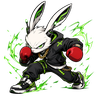
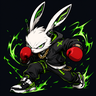
Use dark-background G mascot, framed like a poster
- Swap hero/nav/footer avatar to the dark-bg version of the finalized
  G pose (Codex background-replace kept the exact pose; solid #0f1117
  bg blends with the page, no transparency artifacts)
- Frame it as a filled poster: object-cover, rounded inner corners,
  thin gradient border ring

diff --git a/docs/index.html b/docs/index.html
@@ -106,8 +106,8 @@
 
         <!-- Hero Image -->
         <div class="relative flex justify-center lg:justify-end">
-          <div class="relative w-72 md:w-80 aspect-square rounded-3xl p-6 bg-gradient-to-br from-white/[0.03] to-transparent border border-white/10 shadow-2xl ring-1 ring-inset ring-white/5">
-            <img src="assets/tomz-avatar.png" alt="Tomz — brand mascot avatar" class="relative z-10 w-full h-full object-contain drop-shadow-lg">
+          <div class="relative w-72 md:w-80 aspect-square rounded-3xl p-2 bg-gradient-to-br from-primary/20 to-purple-600/20 border border-white/10 shadow-2xl ring-1 ring-inset ring-white/10">
+            <img src="assets/tomz-avatar.png" alt="Tomz — brand mascot avatar" class="relative z-10 w-full h-full object-cover rounded-2xl">
           </div>
         </div>
       </div>